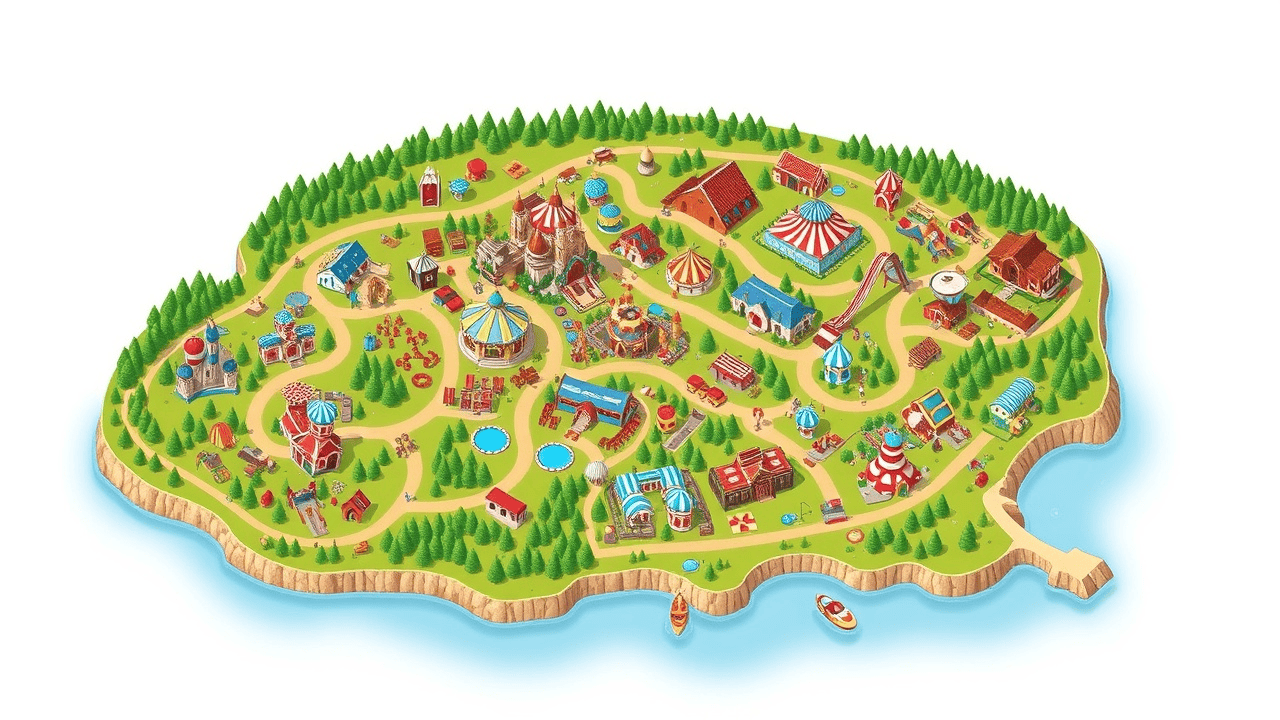
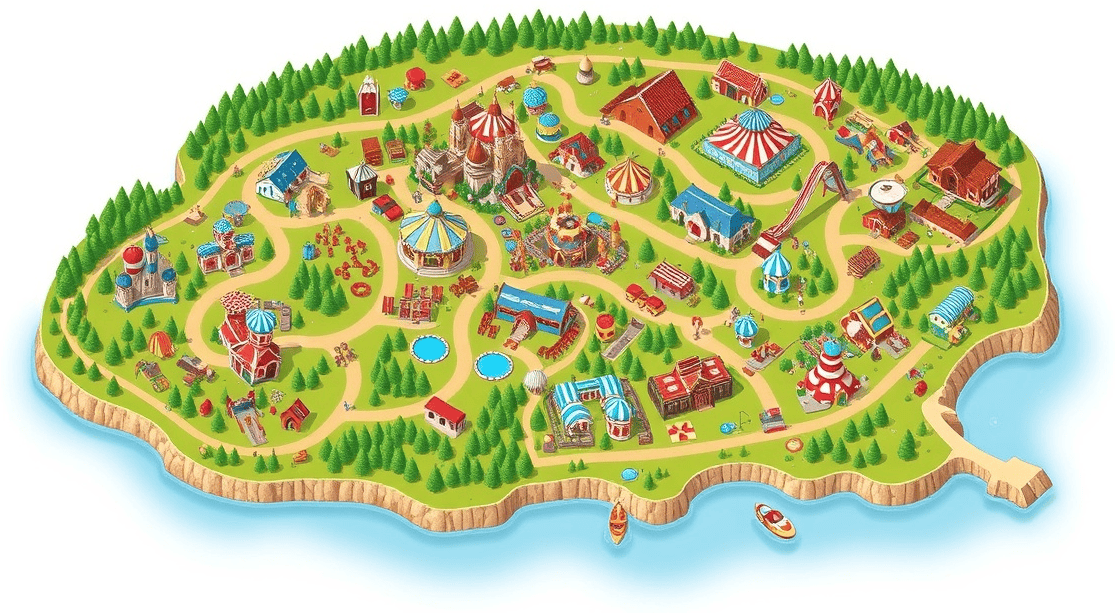
Ridimensionamento mappa e rifiniture grafiche

diff --git a/web/pages/map.html b/web/pages/map.html
@@ -39,7 +39,7 @@
             <p>A <span lang="en">Dreamville</span> ci sono ancora tantissimi angoli da esplorare! Con la mappa del Parco, potrai visitare ogni area con facilità e tornare quando preferisci. </p>
             <p>Grazie alla sua semplicità e chiarezza, scoprirai attrazioni, negozi, ristoranti, aree tematiche e molto altro. </p>
             <p>Tanti luoghi fantastici ti aspettano per essere scoperti!</p>
-            <img id="photoOpenPark" src="assets/mappa_parco.png" alt="mappa del parco">
+            <img id="parkMapImg" src="assets/mappa_parco.png" alt="mappa del parco">
             <h2>Lista delle attrazioni</h2>
             <div id="filtersContainer">
                 <button data-category="tutte" class="buttonStyle tutteBtnSelected" id="tutteBtn">Tutte</button>

diff --git a/web/style/style.css b/web/style/style.css
@@ -559,8 +559,10 @@ label{
   justify-content: center;
 }
 
-#photoOpenPark{
-  width: 100%;
+#parkMapImg{
+  width: 75%;
+  margin: 1em auto;
+  display: block;
 }
 
 #attractionList > .card{
